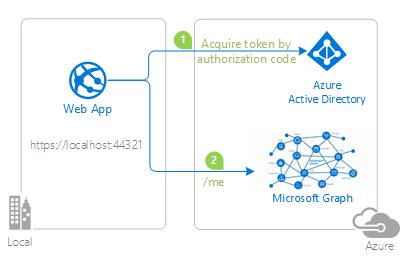
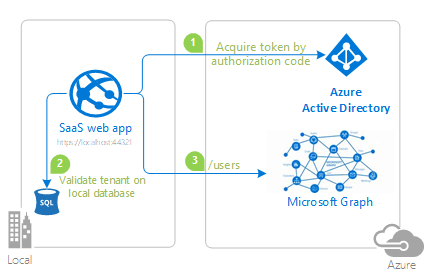
Changed user-flow so the home page allows anonymous access.

diff --git a/2-WebApp-graph-user/2-3-Multi-Tenant/Controllers/OnboardingController.cs b/2-WebApp-graph-user/2-3-Multi-Tenant/Controllers/OnboardingController.cs
@@ -22,15 +22,15 @@ OUT OF OR IN CONNECTION WITH THE SOFTWARE OR THE USE OR OTHER DEALINGS IN THE
 SOFTWARE.
  */
 
-using System;
-using System.Collections.Generic;
-using System.Linq;
-using System.Threading.Tasks;
+using Microsoft.AspNetCore.Authentication;
 using Microsoft.AspNetCore.Authentication.AzureAD.UI;
 using Microsoft.AspNetCore.Authorization;
 using Microsoft.AspNetCore.Http.Extensions;
 using Microsoft.AspNetCore.Mvc;
 using Microsoft.Extensions.Options;
+using System;
+using System.Linq;
+using System.Threading.Tasks;
 using WebApp_OpenIDConnect_DotNet.DAL;
 using WebApp_OpenIDConnect_DotNet.Models;
 
@@ -97,10 +97,14 @@ namespace WebApp_OpenIDConnect_DotNet.Controllers
                 return RedirectToAction("Error", "Home");
             }
 
+            var authenticationProperties = new AuthenticationProperties { RedirectUri = "Home/Index" };
+
             // Check if tenant is already authorized
-            if(dbContext.AuthorizedTenants.FirstOrDefault(x => x.TenantId == tenant) != null)
+            if (dbContext.AuthorizedTenants.FirstOrDefault(x => x.TenantId == tenant) != null)
             {
-                return RedirectToAction("Index", "Home");
+                // Challenge an authentication so dotnet can set the user identity claims. 
+                // Since the user will have a session on AAD already, they wont need to select an account again.
+                return Challenge(authenticationProperties, AzureADDefaults.OpenIdScheme);
             }
 
             // Find a tenant carrying a TempAuthorizationCode that we previously saved
@@ -120,7 +124,9 @@ namespace WebApp_OpenIDConnect_DotNet.Controllers
 
                 await dbContext.SaveChangesAsync();
 
-                return RedirectToAction("Index", "Home");
+                // Challenge an authentication so dotnet can set the user identity claims. 
+                // Since the user will have a session on AAD already, they wont need to select an account again.
+                return Challenge(authenticationProperties, AzureADDefaults.OpenIdScheme);
             }
         }
     }

diff --git a/2-WebApp-graph-user/2-3-Multi-Tenant/Controllers/HomeController.cs b/2-WebApp-graph-user/2-3-Multi-Tenant/Controllers/HomeController.cs
@@ -23,16 +23,18 @@ SOFTWARE.
  */
 
 using Microsoft.AspNetCore.Authorization;
+using Microsoft.AspNetCore.Http.Authentication;
 using Microsoft.AspNetCore.Mvc;
 using Microsoft.Identity.Web;
 using System.Diagnostics;
 using System.Linq;
+using System.Threading.Tasks;
 using WebApp_OpenIDConnect_DotNet.DAL;
 using WebApp_OpenIDConnect_DotNet.Models;
 
 namespace WebApp_OpenIDConnect_DotNet.Controllers
 {
-    [Authorize]
+    [AllowAnonymous]
     public class HomeController : Controller
     {
         private readonly SampleDbContext dbContext;
@@ -62,14 +64,12 @@ namespace WebApp_OpenIDConnect_DotNet.Controllers
                 return RedirectToAction("Index");
         }
 
-        [AllowAnonymous]
         [ResponseCache(Duration = 0, Location = ResponseCacheLocation.None, NoStore = true)]
         public IActionResult UnauthorizedTenant()
         {
             return View();
         }
 
-        [AllowAnonymous]
         [ResponseCache(Duration = 0, Location = ResponseCacheLocation.None, NoStore = true)]
         public IActionResult Error()
         {

diff --git a/2-WebApp-graph-user/2-3-Multi-Tenant/Startup.cs b/2-WebApp-graph-user/2-3-Multi-Tenant/Startup.cs
@@ -38,7 +38,7 @@ using Microsoft.Identity.Web.TokenCacheProviders.InMemory;
 using System;
 using System.Linq;
 using System.Threading.Tasks;
-using WebApp_OpenIDConnect_DotNet.BLL;
+using WebApp_OpenIDConnect_DotNet.Services;
 using WebApp_OpenIDConnect_DotNet.DAL;
 using WebApp_OpenIDConnect_DotNet.Utils;
 
@@ -79,7 +79,7 @@ namespace WebApp_OpenIDConnect_DotNet
 
             services.Configure<OpenIdConnectOptions>(AzureADDefaults.OpenIdScheme, options =>
             {
-                options.Events.OnTokenValidated = async context => 
+                options.Events.OnTokenValidated = async context =>
                 {
                     string tenantId = context.SecurityToken.Claims.FirstOrDefault(x => x.Type == "tid" || x.Type == "http://schemas.microsoft.com/identity/claims/tenantid")?.Value;
 

diff --git a/2-WebApp-graph-user/2-3-Multi-Tenant/Controllers/TodoListController.cs b/2-WebApp-graph-user/2-3-Multi-Tenant/Controllers/TodoListController.cs
@@ -30,7 +30,7 @@ using Microsoft.AspNetCore.Authorization;
 using Microsoft.AspNetCore.Mvc;
 using Microsoft.AspNetCore.Mvc.Rendering;
 using Microsoft.Identity.Web;
-using WebApp_OpenIDConnect_DotNet.BLL;
+using WebApp_OpenIDConnect_DotNet.Services;
 using WebApp_OpenIDConnect_DotNet.Models;
 using WebApp_OpenIDConnect_DotNet.Utils;
 

diff --git a/2-WebApp-graph-user/2-3-Multi-Tenant/Services/TodoItemService.cs b/2-WebApp-graph-user/2-3-Multi-Tenant/Services/TodoItemService.cs
@@ -32,7 +32,7 @@ using System.Threading.Tasks;
 using WebApp_OpenIDConnect_DotNet.DAL;
 using WebApp_OpenIDConnect_DotNet.Models;
 
-namespace WebApp_OpenIDConnect_DotNet.BLL
+namespace WebApp_OpenIDConnect_DotNet.Services
 {
     public class TodoItemService : ITodoItemService
     {

diff --git a/2-WebApp-graph-user/2-3-Multi-Tenant/Services/ITodoItemService.cs b/2-WebApp-graph-user/2-3-Multi-Tenant/Services/ITodoItemService.cs
@@ -27,7 +27,7 @@ using System.Security.Claims;
 using System.Threading.Tasks;
 using WebApp_OpenIDConnect_DotNet.Models;
 
-namespace WebApp_OpenIDConnect_DotNet.BLL
+namespace WebApp_OpenIDConnect_DotNet.Services
 {
     public interface ITodoItemService
     {

diff --git a/2-WebApp-graph-user/2-3-Multi-Tenant/Services/MSGraphService.cs b/2-WebApp-graph-user/2-3-Multi-Tenant/Services/MSGraphService.cs
@@ -31,7 +31,7 @@ using System.Linq;
 using System.Net.Http.Headers;
 using System.Threading.Tasks;
 
-namespace WebApp_OpenIDConnect_DotNet.BLL
+namespace WebApp_OpenIDConnect_DotNet.Services
 {
     public class MSGraphService : IMSGraphService
     {

diff --git a/2-WebApp-graph-user/2-3-Multi-Tenant/Services/IMSGraphService.cs b/2-WebApp-graph-user/2-3-Multi-Tenant/Services/IMSGraphService.cs
@@ -26,7 +26,7 @@ using Microsoft.Graph;
 using System.Collections.Generic;
 using System.Threading.Tasks;
 
-namespace WebApp_OpenIDConnect_DotNet.BLL
+namespace WebApp_OpenIDConnect_DotNet.Services
 {
     public interface IMSGraphService
     {

diff --git a/2-WebApp-graph-user/2-3-Multi-Tenant/README.md b/2-WebApp-graph-user/2-3-Multi-Tenant/README.md
@@ -43,13 +43,14 @@ For more information about apps and tenancy, see [Tenancy in Azure Active Direct
 
 This sample shows how to build a .NET Core MVC web application that uses the [OpenID Connect](https://docs.microsoft.com/en-us/azure/active-directory/develop/v2-protocols-oidc) protocol to sign in users from multiple Azure AD tenants and acquire token for [Microsoft Graph](https://graph.microsoft.com) using the [Microsoft Authentication Library (MSAL)](https://docs.microsoft.com/en-us/azure/active-directory/develop/msal-overview). It leverages the ASP.NET Core OpenID Connect middleware.
 
-The application puts forward a scenario where a SaaS application invites the administrators of Azure AD tenants to `enrol` their tenants into this app. This process is analogous to a customer `buying` a SaaS product.  
+The application puts forward a scenario where a SaaS application invites the administrators of Azure AD tenants to `enroll` their tenants into this app. This process is analogous to a customer `buying` a SaaS product.  
 
- 1. Once you start the application, it will ask you to sign-in as an administrator. If its your first time signing-in, you'd land on a page with a heading **Unauthorized Tenant**. Click on the **Take me to the onboarding process** button to onboard your tenant to this application.
- 1. Once you have **Registered your tenant** 
+ 1. Once you start the application, you will land in the homepage where you can sign-in or onboard your tenant.
+ 1. If you sign-in before onboarding your tenant, you'd land on a page with a heading **Unauthorized Tenant**. Click on the **Take me to the onboarding process** button to onboard your tenant to this application.
+ 1. On the onboarding page, you will be asked to sign-in as an **administrator** and accept an **admin consent** for the application.
+ 1. Once you have **registered your tenant**, all users from that tenant will be able to sign-in and explore the todo list.
 
 > Looking for previous versions of this code sample? Check out the tags on the [releases](../../releases) GitHub page.
-
 
 ## How to run this sample
 
